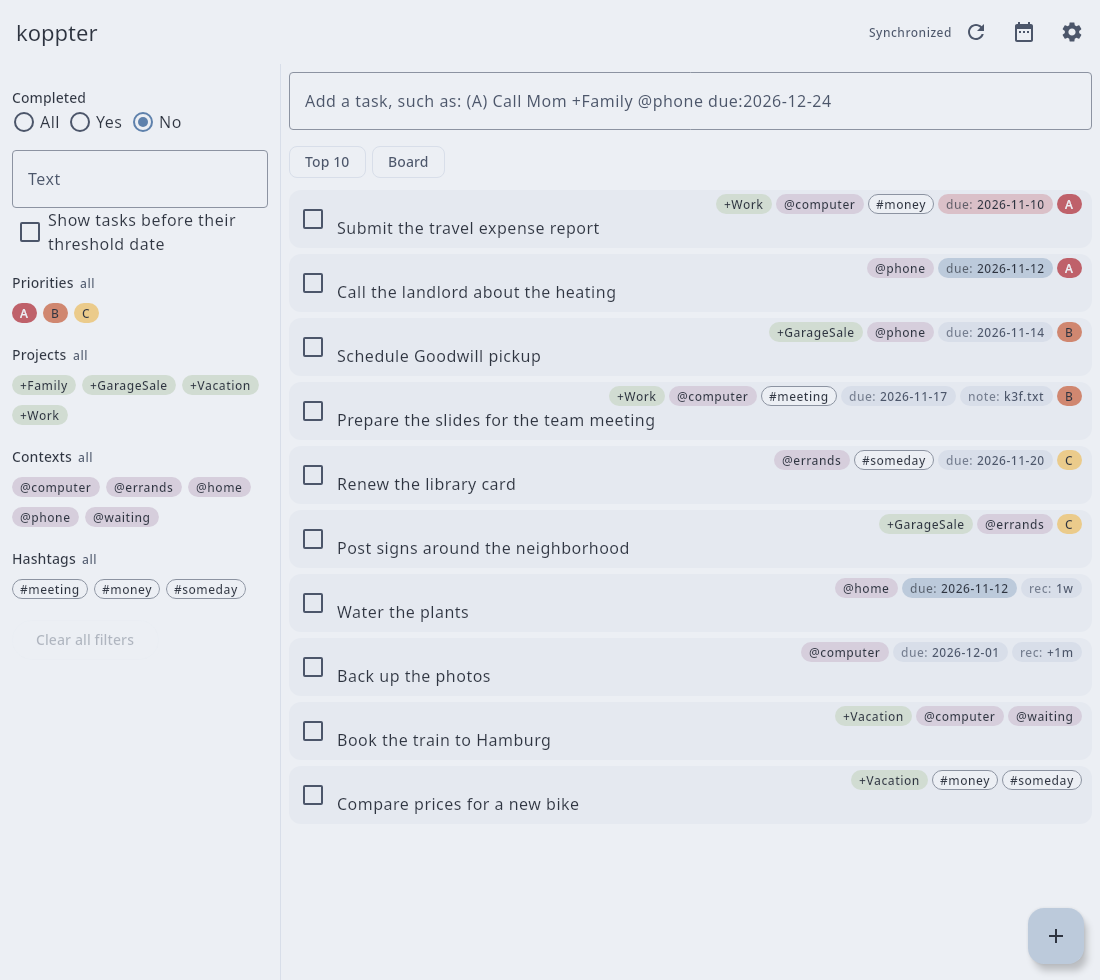
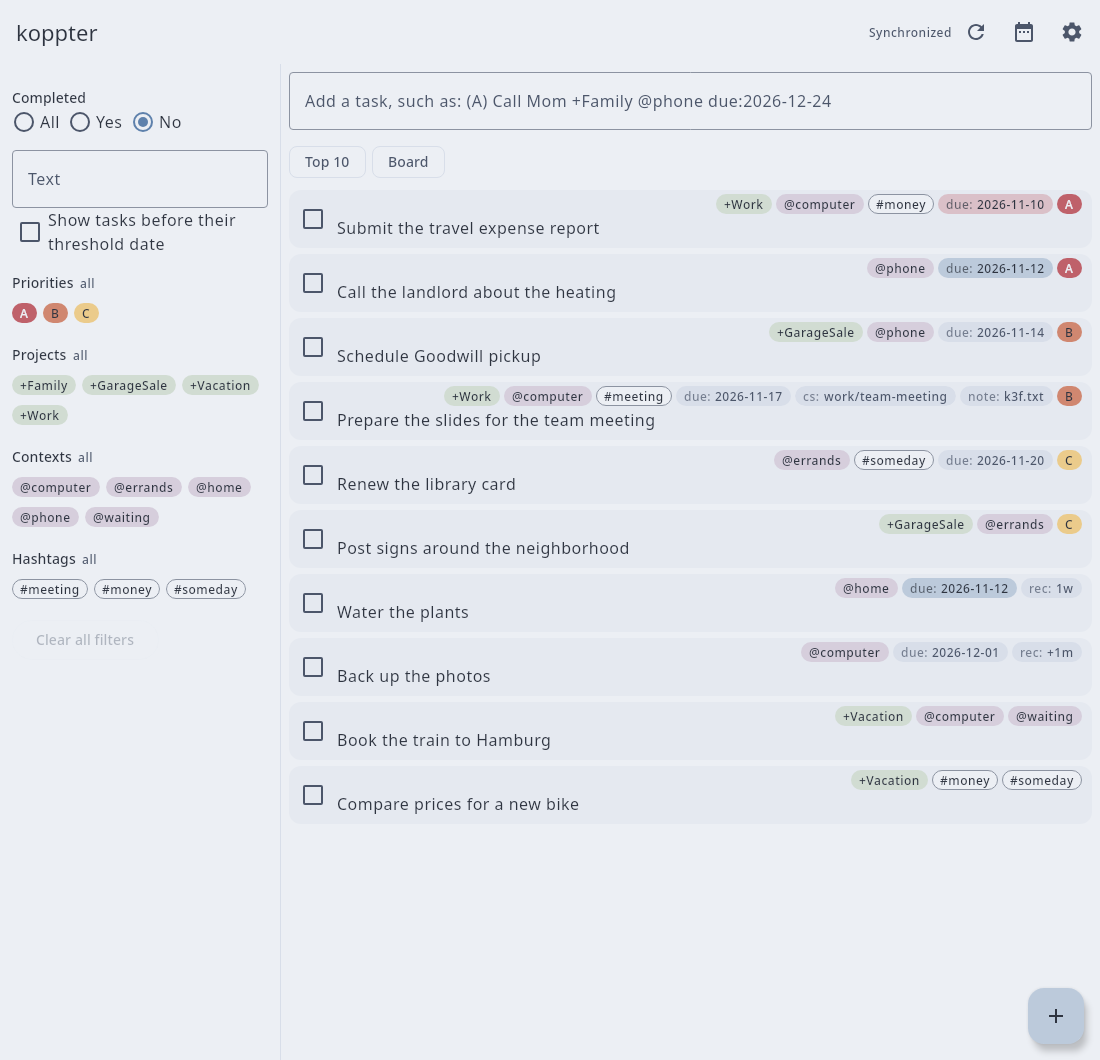
Add a field for the ContextSwitcher task to the edit dialog
The tag could only be typed into the description. The dialog now has a field that takes the id or a copied link and removes the tag when emptied; the demo task of the screenshots carries the tag.

diff --git a/app/src/desktopTest/kotlin/io/github/koppor/koppter/ui/AppTest.kt b/app/src/desktopTest/kotlin/io/github/koppor/koppter/ui/AppTest.kt
@@ -7,6 +7,7 @@ import androidx.compose.ui.test.assertIsNotEnabled
 import androidx.compose.ui.test.assertIsOff
 import androidx.compose.ui.test.assertIsOn
 import androidx.compose.ui.test.assertIsSelected
+import androidx.compose.ui.test.assertTextContains
 import androidx.compose.ui.test.assertTextEquals
 import androidx.compose.ui.test.hasAnyAncestor
 import androidx.compose.ui.test.hasTestTag
@@ -137,7 +138,7 @@ class AppTest {
         onNodeWithTag("edit-project-suggest-Family").performClick()
         onNodeWithTag("edit-line").assertTextEquals("(B) Thank Mom for the meatballs +Family @phone due:2026-11-20")
 
-        onNodeWithTag("edit-save").performClick()
+        onNodeWithTag("edit-save").performScrollTo().performClick()
         assertEquals("(B) Thank Mom for the meatballs +Family @phone due:2026-11-20", storage.text.lines()[2])
         onNodeWithTag("edit-dialog").assertDoesNotExist()
     }
@@ -148,7 +149,7 @@ class AppTest {
         storage.text = "Call  +Family Mom   @phone\n"
         start()
         openTask("Call Mom")
-        onNodeWithTag("edit-save").performClick()
+        onNodeWithTag("edit-save").performScrollTo().performClick()
         assertEquals("Call  +Family Mom   @phone\n", storage.text)
     }
 
@@ -160,7 +161,7 @@ class AppTest {
         onNodeWithTag("edit-due").performTextInput("tomorrow")
         onNodeWithTag("edit-save").assertIsNotEnabled()
         onNodeWithTag("edit-due").performTextReplacement("2026-11-30")
-        onNodeWithTag("edit-save").performClick()
+        onNodeWithTag("edit-save").performScrollTo().performClick()
         assertEquals("Post signs +GarageSale due:2026-11-30", storage.text.lines()[1])
     }
 
@@ -169,7 +170,7 @@ class AppTest {
     fun deletesATaskFromTheDialog() = runComposeUiTest {
         start()
         openTask("Post signs")
-        onNodeWithTag("edit-delete").performClick()
+        onNodeWithTag("edit-delete").performScrollTo().performClick()
         assertEquals(3, storage.text.trim().lines().size)
         onNodeWithText("Post signs").assertDoesNotExist()
     }
@@ -182,7 +183,7 @@ class AppTest {
         onNodeWithTag("edit-save").assertIsNotEnabled()
         onNodeWithTag("edit-description").performTextInput("Water plants")
         onNodeWithTag("edit-context-add").performTextInput("home ")
-        onNodeWithTag("edit-save").performClick()
+        onNodeWithTag("edit-save").performScrollTo().performClick()
         assertEquals("Water plants @home", storage.text.trim().lines().last())
     }
 
@@ -246,6 +247,20 @@ class AppTest {
         assertEquals(listOf("contextswitcher://switch/jabref/fix-npe"), opened)
         // The click on the label does not open the task.
         onNodeWithTag("edit-dialog").assertDoesNotExist()
+
+        // The edit dialog has a field for the task; it takes the id or a link and removes the tag when emptied.
+        openTask("Review the comments")
+        onNodeWithTag("edit-cs").assertTextContains("jabref/fix-npe")
+        onNodeWithTag("edit-cs").performTextReplacement("contextswitcher://task/jabref/review")
+        onNodeWithTag("edit-save").performScrollTo().performClick()
+        assertEquals("Review the comments +JabRef cs:jabref/review", storage.text.trim().lines().last())
+        openTask("Review the comments")
+        onNodeWithTag("edit-cs").performTextReplacement("")
+        onNodeWithTag("edit-save").performScrollTo().performClick()
+        assertEquals("Review the comments +JabRef", storage.text.trim().lines().last())
+        openTask("Review the comments")
+        onNodeWithTag("edit-cs").performTextReplacement("jabref/fix-npe")
+        onNodeWithTag("edit-save").performScrollTo().performClick()
 
         controller.add("Call cs:missing")
         onAllNodesWithTag("label-cs", useUnmergedTree = true)[1].performClick()
@@ -372,8 +387,8 @@ class AppTest {
     fun aNoteIsKeptInAFileNamedByATag() = runComposeUiTest {
         start()
         openTask("Post signs")
-        onNodeWithTag("edit-note").performTextInput("Ask the neighbors first")
-        onNodeWithTag("edit-save").performClick()
+        onNodeWithTag("edit-note").performScrollTo().performTextInput("Ask the neighbors first")
+        onNodeWithTag("edit-save").performScrollTo().performClick()
 
         val line = storage.text.lines()[1]
         val name = Regex("^Post signs \\+GarageSale note:([0-9a-z]{3}\\.txt)$").matchEntire(line)!!.groupValues[1]
@@ -381,8 +396,8 @@ class AppTest {
 
         openTask("Post signs")
         onNodeWithTag("edit-note").assertTextEquals("Note", "Ask the neighbors first")
-        onNodeWithTag("edit-note").performTextReplacement("Ask the neighbors first, then the school")
-        onNodeWithTag("edit-save").performClick()
+        onNodeWithTag("edit-note").performScrollTo().performTextReplacement("Ask the neighbors first, then the school")
+        onNodeWithTag("edit-save").performScrollTo().performClick()
         assertEquals(line, storage.text.lines()[1])
         assertEquals("Ask the neighbors first, then the school", storage.companions["notes/$name"])
         assertEquals("Edit note: Post signs", storage.changes.last())

diff --git a/app/src/desktopTest/kotlin/io/github/koppor/koppter/ui/ScreenshotTest.kt b/app/src/desktopTest/kotlin/io/github/koppor/koppter/ui/ScreenshotTest.kt
@@ -7,6 +7,7 @@ import androidx.compose.ui.test.ExperimentalTestApi
 import androidx.compose.ui.test.onNodeWithTag
 import androidx.compose.ui.test.onNodeWithText
 import androidx.compose.ui.test.performClick
+import androidx.compose.ui.test.performScrollTo
 import androidx.compose.ui.test.performMouseInput
 import androidx.compose.ui.test.v2.runDesktopComposeUiTest
 import io.github.koppor.koppter.storage.Appearance
@@ -56,7 +57,7 @@ class ScreenshotTest {
         override var onStatus: (SyncStatus) -> Unit = {}
         override fun sync() = Unit
         override fun dates() = mapOf(
-            "(B) Prepare the slides for the team meeting +Work @computer #meeting due:2026-11-17 note:k3f.txt" to TaskDates(added = LocalDate(2026, 11, 5)),
+            "(B) Prepare the slides for the team meeting +Work @computer #meeting due:2026-11-17 cs:work/team-meeting note:k3f.txt" to TaskDates(added = LocalDate(2026, 11, 5)),
         )
 
         override fun readCompanion(path: String) = companions[path]
@@ -66,7 +67,7 @@ class ScreenshotTest {
             (A) Call the landlord about the heating @phone due:2026-11-12
             (A) Submit the travel expense report +Work @computer #money due:2026-11-10
             (B) Schedule Goodwill pickup +GarageSale @phone due:2026-11-14
-            (B) Prepare the slides for the team meeting +Work @computer #meeting due:2026-11-17 note:k3f.txt
+            (B) Prepare the slides for the team meeting +Work @computer #meeting due:2026-11-17 cs:work/team-meeting note:k3f.txt
             (C) Post signs around the neighborhood +GarageSale @errands
             (C) Renew the library card @errands #someday due:2026-11-20
             Water the plants @home due:2026-11-12 rec:1w
@@ -91,7 +92,7 @@ class ScreenshotTest {
     }
 
     @Test
-    fun rendersListAndDialogs() = runDesktopComposeUiTest(width = 1100, height = 980) {
+    fun rendersListAndDialogs() = runDesktopComposeUiTest(width = 1100, height = 1060) {
         start()
         save("list.png")
         onNodeWithTag("filter-project-GarageSale").performClick()
@@ -101,13 +102,13 @@ class ScreenshotTest {
         onNodeWithTag("filter-clear").performClick()
         onNodeWithText("Prepare the slides for the team meeting").performClick()
         save("edit.png")
-        onNodeWithTag("edit-cancel").performClick()
+        onNodeWithTag("edit-cancel").performScrollTo().performClick()
         onNodeWithTag("open-settings").performClick()
         save("settings.png")
     }
 
     @Test
-    fun rendersSchedule() = runDesktopComposeUiTest(width = 1100, height = 980) {
+    fun rendersSchedule() = runDesktopComposeUiTest(width = 1100, height = 1060) {
         start()
         onNodeWithTag("open-schedule").performClick()
         save("schedule.png")

diff --git a/app/src/commonMain/kotlin/io/github/koppor/koppter/ui/EditDialog.kt b/app/src/commonMain/kotlin/io/github/koppor/koppter/ui/EditDialog.kt
@@ -78,6 +78,7 @@ fun EditDialog(
     var due by remember { mutableStateOf(original.tag(Task.DUE).orEmpty()) }
     var threshold by remember { mutableStateOf(original.tag(Task.THRESHOLD).orEmpty()) }
     var recurrence by remember { mutableStateOf(original.tag(Task.RECURRENCE).orEmpty()) }
+    var contextSwitcher by remember { mutableStateOf(original.tag(Task.CONTEXT_SWITCHER).orEmpty()) }
     var projects by remember { mutableStateOf(original.projects) }
     var contexts by remember { mutableStateOf(original.contexts) }
     var hashtags by remember { mutableStateOf(original.hashtags) }
@@ -91,7 +92,9 @@ fun EditDialog(
         .withTag(Task.DUE, due.trim())
         .withTag(Task.THRESHOLD, threshold.trim())
         .withTag(Task.RECURRENCE, recurrence.trim())
-        .withContextSwitcherTags()
+        // A link pasted into the description counts only while the field is empty.
+        .withTag(Task.CONTEXT_SWITCHER, Task.contextSwitcherId(contextSwitcher))
+        .let { if (contextSwitcher.isBlank()) it.withContextSwitcherTags() else it }
         // [impl->dsn~notes~1]
         .let { if (originalNote == null) it else it.withTag(Task.NOTE, if (note.isBlank()) null else original.tag(Task.NOTE) ?: newNoteName) }
     val valid = dueValid && thresholdValid && recurrenceValid && result.body.isNotBlank()
@@ -141,6 +144,16 @@ fun EditDialog(
                         modifier = field.testTag("edit-recurrence"),
                     )
                 }
+
+                // [impl->dsn~context-switcher-tag~1]
+                OutlinedTextField(
+                    value = contextSwitcher,
+                    onValueChange = { contextSwitcher = it },
+                    label = { Text("ContextSwitcher task") },
+                    placeholder = { Text("category/task or a copied link") },
+                    singleLine = true,
+                    modifier = Modifier.fillMaxWidth().testTag("edit-cs"),
+                )
 
                 NameList("Project", "+", projects, knownProjects, { projects = it }, "edit-project")
                 NameList("Context", "@", contexts, knownContexts, { contexts = it }, "edit-context")

diff --git a/core/src/commonMain/kotlin/io/github/koppor/koppter/todotxt/Task.kt b/core/src/commonMain/kotlin/io/github/koppor/koppter/todotxt/Task.kt
@@ -183,6 +183,11 @@ data class Task(
         // [impl->dsn~context-switcher-tag~1]
         fun contextSwitcherLink(id: String) = "contextswitcher://switch/$id"
 
+        /** The value of the tag `cs:` for what the user entered: the id itself or a link of ContextSwitcher. */
+        // [impl->dsn~context-switcher-tag~1]
+        fun contextSwitcherId(input: String): String =
+            input.trim().let { CONTEXT_SWITCHER_LINK.matchEntire(it)?.groupValues?.get(1) ?: it }.replace(WHITESPACE, "%20")
+
         private val CONTEXT_SWITCHER_LINK = Regex("^contextswitcher://(?:task|switch)/(.+)$")
 
         private val WHITESPACE = Regex("\\s+")

diff --git a/core/src/commonTest/kotlin/io/github/koppor/koppter/todotxt/TaskTest.kt b/core/src/commonTest/kotlin/io/github/koppor/koppter/todotxt/TaskTest.kt
@@ -221,5 +221,7 @@ class TaskTest {
         assertEquals("contextswitcher://switch/jabref/fix-npe", Task.contextSwitcherLink(task.tag(Task.CONTEXT_SWITCHER)!!))
         assertEquals(task, task.withContextSwitcherTags())
         assertEquals(null, Task.parse("Review cs: https://example.org/x").withContextSwitcherTags().tag(Task.CONTEXT_SWITCHER))
+        assertEquals("jabref/fix-npe", Task.contextSwitcherId(" contextswitcher://switch/jabref/fix-npe "))
+        assertEquals("My%20Category/task", Task.contextSwitcherId("My Category/task"))
     }
 }

diff --git a/README.md b/README.md
@@ -97,7 +97,7 @@ The application understands the following extensions, which other todo.txt tools
 | `ice_recur.txt` | Schedules that add tasks on certain days | See [recurring tasks](#recurring-tasks). |
 | `note:k3f.txt` | A note for the task, kept in the file `notes/k3f.txt` | *Note* in the edit dialog; the application names the file. As in the [note add-on](https://github.com/mgarrido/todo.txt-cli/tree/note/todo.actions.d). |
 | `#urgent` | Hashtag: a third kind of label next to `+project` and `@context`, without a fixed meaning | *Add hashtag* in the edit dialog, or typed into the task. A hashtag starts with a letter: `#123` and `C#` stay words of the description ([decision 0014](docs/decisions/0014-hashtags-as-a-third-kind-of-label.md)). |
-| `cs:jabref/fix-npe` | The task of [ContextSwitcher](https://github.com/contextswitcher/contextswitcher) that holds the working context | Typed into the task, or pasted as the link that *Copy link* of ContextSwitcher gives, which becomes the tag. A click on the label switches to the task in ContextSwitcher, on a computer where it has registered its links ([decision 0016](docs/decisions/0016-tag-for-the-task-of-contextswitcher.md)). |
+| `cs:jabref/fix-npe` | The task of [ContextSwitcher](https://github.com/contextswitcher/contextswitcher) that holds the working context | Entered in the field *ContextSwitcher task* of the edit dialog or typed into the task, as the id or as the link that *Copy link* of ContextSwitcher gives, which becomes the tag. A click on the label switches to the task in ContextSwitcher, on a computer where it has registered its links ([decision 0016](docs/decisions/0016-tag-for-the-task-of-contextswitcher.md)). |
 | `pri:A` | The priority a completed task had | Written when a task with a priority is completed, as the format has no priority for completed tasks; reopening the task restores the priority. |
 
 The *Top* switch above the list restricts it to the first tasks, whose number is a setting.

diff --git a/CHANGELOG.md b/CHANGELOG.md
@@ -26,7 +26,7 @@ and this project adheres to [Calendar Versioning](https://calver.org/) with the 
 - Tasks scheduled in `ice_recur.txt` next to the todo.txt file are added on their days; days on which the application was not open are caught up.
 - Editor for the schedule of `ice_recur.txt`, which shows for each entry the next day on which it adds its task and marks lines that are not understood.
 - Colors of the palettes Nord and Everforest, each light and dark; the settings choose the palette and whether the application follows the system.
-- The tag `cs:` names a task of ContextSwitcher; its label switches to that task, and a pasted link of ContextSwitcher becomes the tag.
+- The tag `cs:` names a task of ContextSwitcher; its label switches to that task, a pasted link of ContextSwitcher becomes the tag, and the edit dialog has a field for it.
 - *Top* switch that restricts the list to the first tasks; their number is a setting.
 - Hashtags (`#tag`) as a third kind of label next to projects and contexts: shown on the task, offered in the filter panel, the edit dialog and the filters of board columns.
 - Board view with one column per priority, project, context, hashtag or due date range.

diff --git a/docs/requirements/extensions.md b/docs/requirements/extensions.md
@@ -360,6 +360,7 @@ Needs: impl, utest
 The tag `cs:` holds the id of a task of ContextSwitcher as its links have it.
 `TaskLabels` shows the tag as a label that opens the link `contextswitcher://switch/<id>` through the platform; `App` reports a link that the platform cannot open.
 `Task.withContextSwitcherTags` replaces links of the forms `contextswitcher://task/<id>` and `contextswitcher://switch/<id>` by the tag; the quick add line and the edit dialog apply it.
+The edit dialog has a field for the tag, which takes the id or such a link (`Task.contextSwitcherId`); emptying the field removes the tag.
 
 Covers:
 

diff --git a/docs/requirements/ui.md b/docs/requirements/ui.md
@@ -42,7 +42,7 @@ Needs: dsn
 `req~edit-dialog~1`
 
 The edit dialog shows the description without metadata in its first field.
-Below it, the dialog has fields for priority, due date, threshold date, recurrence, projects, contexts and hashtags.
+Below it, the dialog has fields for priority, due date, threshold date, recurrence, the task of ContextSwitcher, projects, contexts and hashtags.
 Below these fields, the dialog shows the line as it will be written to the todo.txt file, in a monospaced font.
 
 Covers:
